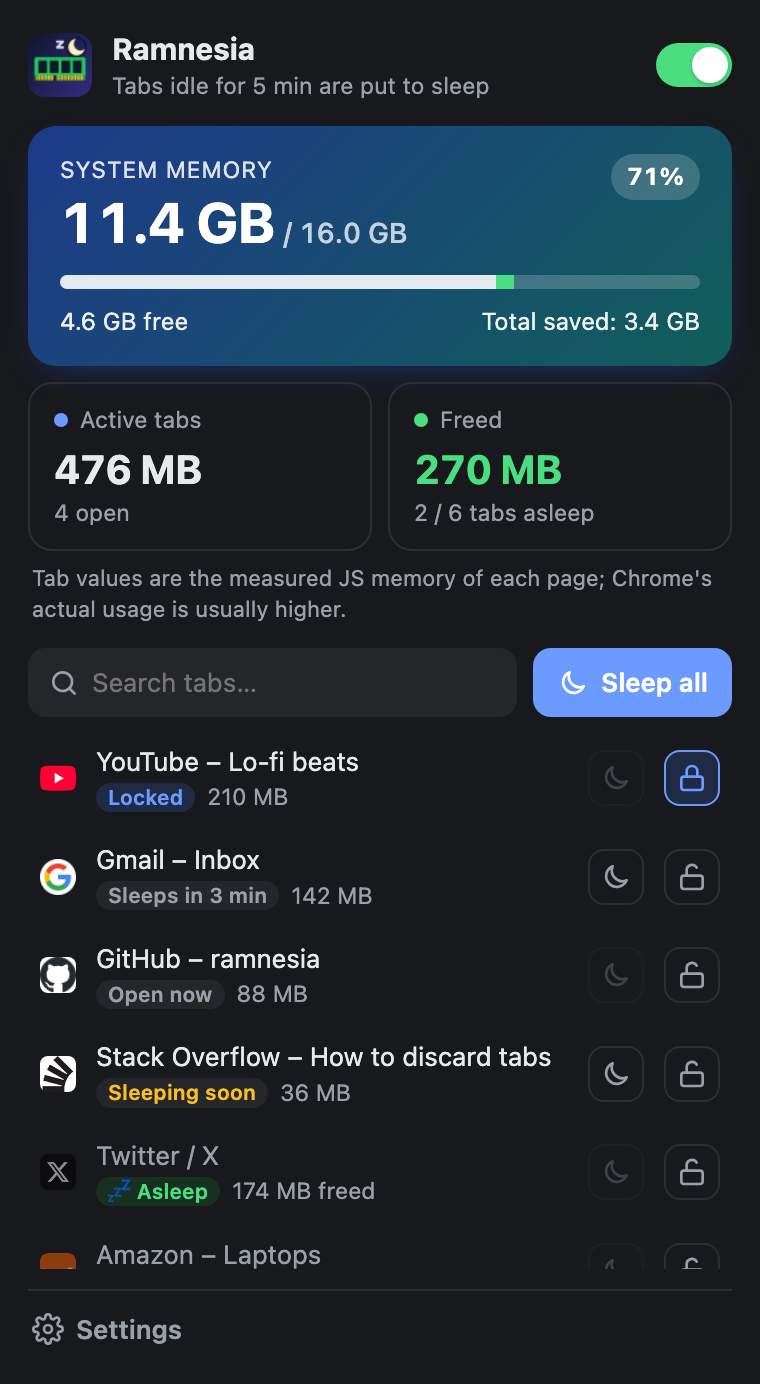
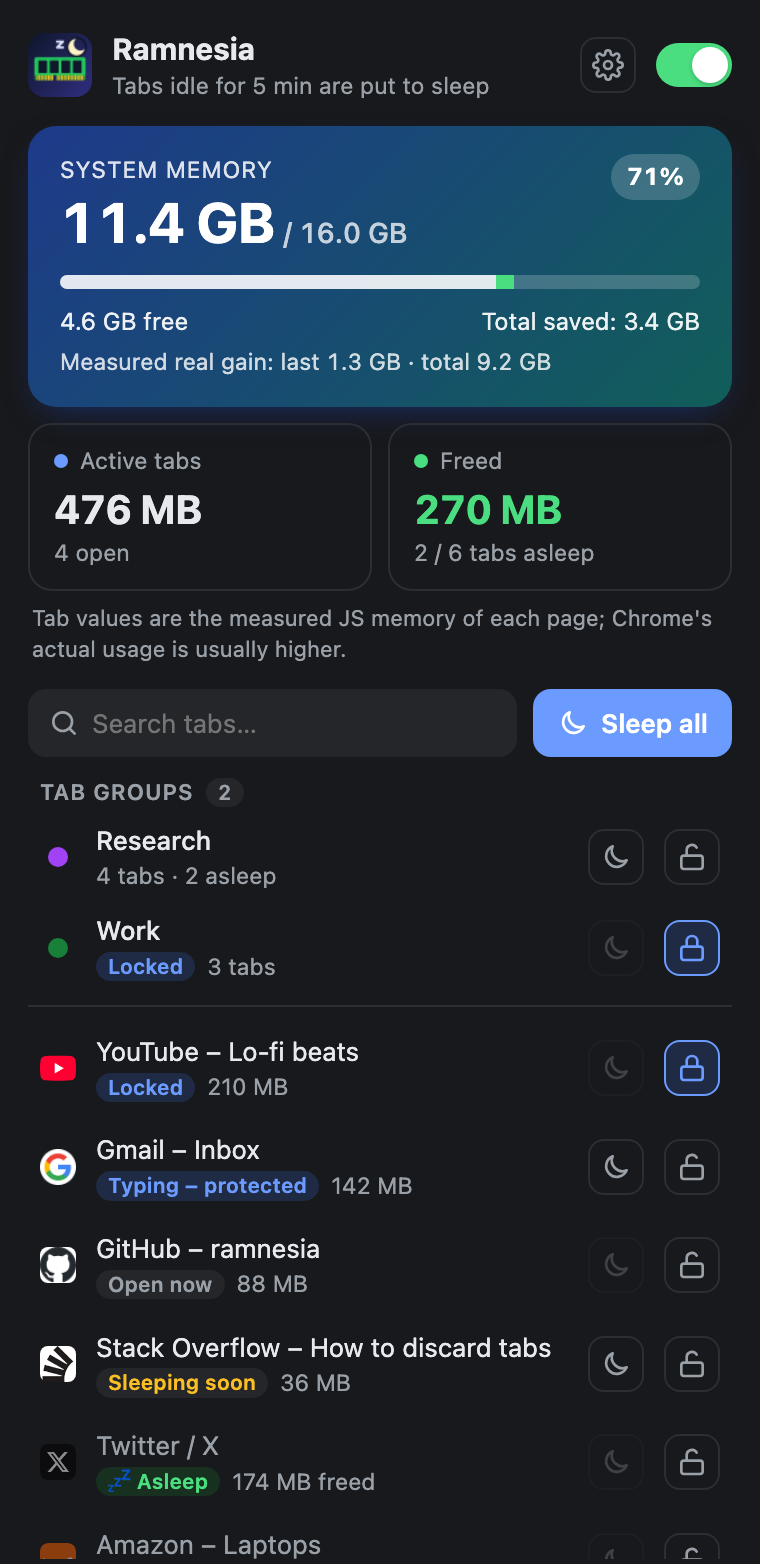
Move settings into a separate view behind a gear button
- Gear button next to the on/off switch opens a settings view; back
  button or Esc returns
- Settings grouped into cards: General, Protection, When RAM is high,
  When I'm away, Tab groups, Sites never put to sleep, Statistics
- Drop the separate "reset measured total" button; "Reset total" now
  resets both totals
- Refresh README screenshots and add the settings view

diff --git a/popup.html b/popup.html
@@ -18,68 +18,81 @@
         <p id="modeText"></p>
       </div>
     </div>
-    <label class="switch" data-i18n-title="toggleTitle">
-      <input type="checkbox" id="enabled" />
-      <span></span>
-    </label>
+    <div class="header-actions">
+      <button id="openSettings" class="icon-btn" type="button" data-i18n-title="settings" aria-pressed="false">
+        <svg viewBox="0 0 24 24"><circle cx="12" cy="12" r="3"/><path d="M19.4 15a1.7 1.7 0 0 0 .3 1.8l.1.1a2 2 0 1 1-2.8 2.8l-.1-.1a1.7 1.7 0 0 0-1.8-.3 1.7 1.7 0 0 0-1 1.5V21a2 2 0 1 1-4 0v-.1a1.7 1.7 0 0 0-1.1-1.5 1.7 1.7 0 0 0-1.8.3l-.1.1a2 2 0 1 1-2.8-2.8l.1-.1a1.7 1.7 0 0 0 .3-1.8 1.7 1.7 0 0 0-1.5-1H3a2 2 0 1 1 0-4h.1a1.7 1.7 0 0 0 1.5-1.1 1.7 1.7 0 0 0-.3-1.8l-.1-.1a2 2 0 1 1 2.8-2.8l.1.1a1.7 1.7 0 0 0 1.8.3H9a1.7 1.7 0 0 0 1-1.5V3a2 2 0 1 1 4 0v.1a1.7 1.7 0 0 0 1 1.5 1.7 1.7 0 0 0 1.8-.3l.1-.1a2 2 0 1 1 2.8 2.8l-.1.1a1.7 1.7 0 0 0-.3 1.8V9a1.7 1.7 0 0 0 1.5 1H21a2 2 0 1 1 0 4h-.1a1.7 1.7 0 0 0-1.5 1z"/></svg>
+      </button>
+      <label class="switch" data-i18n-title="toggleTitle">
+        <input type="checkbox" id="enabled" />
+        <span></span>
+      </label>
+    </div>
   </header>
 
-  <section class="hero">
-    <div class="hero-top">
-      <div>
-        <div class="hero-label" data-i18n="systemMemory"></div>
-        <div class="hero-value"><span id="sysUsed">–</span><small id="sysCap"></small></div>
+  <!-- ana görünüm -->
+  <main id="mainView">
+    <section class="hero">
+      <div class="hero-top">
+        <div>
+          <div class="hero-label" data-i18n="systemMemory"></div>
+          <div class="hero-value"><span id="sysUsed">–</span><small id="sysCap"></small></div>
+        </div>
+        <div class="hero-pct" id="sysPct"></div>
       </div>
-      <div class="hero-pct" id="sysPct"></div>
-    </div>
-    <div class="pressure-pill" id="pressurePill" hidden>
-      <svg viewBox="0 0 24 24"><path d="M13 2 4 14h7l-1 8 9-12h-7z"/></svg>
-      <span data-i18n="pressurePill"></span>
-    </div>
-    <div class="meter" data-i18n-title="meterTitle">
-      <div id="meterOther"></div><div id="meterTabs"></div>
-    </div>
-    <div class="hero-meta">
-      <span id="sysFree"></span>
-      <span id="totalSaved"></span>
-    </div>
-    <div id="heroExtra"></div>
-  </section>
+      <div class="pressure-pill" id="pressurePill" hidden>
+        <svg viewBox="0 0 24 24"><path d="M13 2 4 14h7l-1 8 9-12h-7z"/></svg>
+        <span data-i18n="pressurePill"></span>
+      </div>
+      <div class="meter" data-i18n-title="meterTitle">
+        <div id="meterOther"></div><div id="meterTabs"></div>
+      </div>
+      <div class="hero-meta">
+        <span id="sysFree"></span>
+        <span id="totalSaved"></span>
+      </div>
+      <div id="heroExtra"></div>
+    </section>
 
-  <div class="tiles">
-    <div class="tile">
-      <div class="tile-label"><i class="dot awake"></i><span data-i18n="awakeTabs"></span></div>
-      <div class="tile-value" id="awakeMem">–</div>
-      <div class="tile-sub" id="awakeCount"></div>
+    <div class="tiles">
+      <div class="tile">
+        <div class="tile-label"><i class="dot awake"></i><span data-i18n="awakeTabs"></span></div>
+        <div class="tile-value" id="awakeMem">–</div>
+        <div class="tile-sub" id="awakeCount"></div>
+      </div>
+      <div class="tile">
+        <div class="tile-label"><i class="dot asleep"></i><span data-i18n="freedLabel"></span></div>
+        <div class="tile-value good" id="savedNow">0 MB</div>
+        <div class="tile-sub" id="sleepCount"></div>
+      </div>
     </div>
-    <div class="tile">
-      <div class="tile-label"><i class="dot asleep"></i><span data-i18n="freedLabel"></span></div>
-      <div class="tile-value good" id="savedNow">0 MB</div>
-      <div class="tile-sub" id="sleepCount"></div>
+    <p class="note" id="heroNote"></p>
+
+    <div class="toolbar">
+      <div class="search">
+        <svg viewBox="0 0 24 24"><circle cx="11" cy="11" r="7"/><path d="m20 20-3.5-3.5"/></svg>
+        <input id="search" type="search" data-i18n-placeholder="searchPlaceholder" />
+      </div>
+      <button id="discardNow" class="primary" data-i18n-title="discardAllTitle">
+        <svg viewBox="0 0 24 24"><path d="M20 14.5A8 8 0 0 1 9.5 4a8 8 0 1 0 10.5 10.5z"/></svg>
+        <span data-i18n="discardAll"></span>
+      </button>
     </div>
-  </div>
-  <p class="note" id="heroNote"></p>
 
-  <div class="toolbar">
-    <div class="search">
-      <svg viewBox="0 0 24 24"><circle cx="11" cy="11" r="7"/><path d="m20 20-3.5-3.5"/></svg>
-      <input id="search" type="search" data-i18n-placeholder="searchPlaceholder" />
+    <div id="groupSection"></div>
+    <ul id="tabList"></ul>
+  </main>
+
+  <!-- ayarlar görünümü -->
+  <section id="settingsView" hidden>
+    <div class="view-head">
+      <button id="closeSettings" class="icon-btn" type="button" data-i18n-title="back">
+        <svg viewBox="0 0 24 24"><path d="M15 18l-6-6 6-6"/></svg>
+      </button>
+      <h2 data-i18n="settings"></h2>
     </div>
-    <button id="discardNow" class="primary" data-i18n-title="discardAllTitle">
-      <svg viewBox="0 0 24 24"><path d="M20 14.5A8 8 0 0 1 9.5 4a8 8 0 1 0 10.5 10.5z"/></svg>
-      <span data-i18n="discardAll"></span>
-    </button>
-  </div>
 
-  <div id="groupSection"></div>
-  <ul id="tabList"></ul>
-
-  <details id="settings">
-    <summary>
-      <svg viewBox="0 0 24 24"><circle cx="12" cy="12" r="3"/><path d="M19.4 15a1.7 1.7 0 0 0 .3 1.8l.1.1a2 2 0 1 1-2.8 2.8l-.1-.1a1.7 1.7 0 0 0-1.8-.3 1.7 1.7 0 0 0-1 1.5V21a2 2 0 1 1-4 0v-.1a1.7 1.7 0 0 0-1.1-1.5 1.7 1.7 0 0 0-1.8.3l-.1.1a2 2 0 1 1-2.8-2.8l.1-.1a1.7 1.7 0 0 0 .3-1.8 1.7 1.7 0 0 0-1.5-1H3a2 2 0 1 1 0-4h.1a1.7 1.7 0 0 0 1.5-1.1 1.7 1.7 0 0 0-.3-1.8l-.1-.1a2 2 0 1 1 2.8-2.8l.1.1a1.7 1.7 0 0 0 1.8.3H9a1.7 1.7 0 0 0 1-1.5V3a2 2 0 1 1 4 0v.1a1.7 1.7 0 0 0 1 1.5 1.7 1.7 0 0 0 1.8-.3l.1-.1a2 2 0 1 1 2.8 2.8l-.1.1a1.7 1.7 0 0 0-.3 1.8V9a1.7 1.7 0 0 0 1.5 1H21a2 2 0 1 1 0 4h-.1a1.7 1.7 0 0 0-1.5 1z"/></svg>
-      <span data-i18n="settings"></span>
-    </summary>
-    <div class="settings-body">
+    <div class="set-card">
+      <h3 data-i18n="secGeneral"></h3>
       <label class="row">
         <span data-i18n="sleepAfter"></span>
         <span class="stepper">
@@ -92,7 +105,15 @@
       <label class="row"><span data-i18n="skipPinned"></span><input type="checkbox" id="skipPinned" class="toggle" /></label>
       <label class="row"><span data-i18n="skipAudible"></span><input type="checkbox" id="skipAudible" class="toggle" /></label>
       <label class="row"><span data-i18n="notifyLabel"></span><input type="checkbox" id="notify" class="toggle" /></label>
+    </div>
 
+    <div class="set-card">
+      <h3 data-i18n="secProtect"></h3>
+      <div id="settingsProtect"></div>
+    </div>
+
+    <div class="set-card">
+      <h3 data-i18n="secPressure"></h3>
       <label class="row">
         <span>
           <span data-i18n="pressureMode"></span>
@@ -120,17 +141,33 @@
           </span>
         </label>
       </div>
+    </div>
 
-      <div id="featureSettings"></div>
+    <div class="set-card">
+      <h3 data-i18n="secAway"></h3>
+      <div id="settingsAway"></div>
+    </div>
 
-      <div class="sub" data-i18n="whitelistTitle"></div>
+    <div class="set-card">
+      <h3 data-i18n="secGroups"></h3>
+      <div id="settingsGroups"></div>
+    </div>
+
+    <div class="set-card">
+      <h3 data-i18n="whitelistTitle"></h3>
       <textarea id="whitelist" rows="3" data-i18n-placeholder="whitelistPlaceholder"></textarea>
       <div class="btn-row">
         <button id="addCurrent" class="ghost" data-i18n="addCurrent"></button>
+      </div>
+    </div>
+
+    <div class="set-card">
+      <h3 data-i18n="secStats"></h3>
+      <div class="btn-row">
         <button id="resetTotals" class="ghost" data-i18n="resetTotals"></button>
       </div>
     </div>
-  </details>
+  </section>
 
   <div id="toast" role="status"></div>
 

diff --git a/popup.js b/popup.js
@@ -22,7 +22,8 @@ const send = (msg) => chrome.runtime.sendMessage(msg);
 
 // --- özellik takılma noktaları ---------------------------------------------
 // features/*.popup.js dosyaları popup.js'ten sonra yüklenir ve buraya fonksiyon ekler.
-// Yer tutucular (popup.html): #heroExtra, #groupSection, #featureSettings
+// Yer tutucular (popup.html): #heroExtra, #groupSection ve ayarlar görünümündeki
+// #settingsProtect, #settingsAway, #settingsGroups
 const RNP = {
   afterStats: [], // (statsResponse) => void   → her yenilemede
   afterTabs: [],  // (tabsArray) => void        → her yenilemede
@@ -347,6 +348,24 @@ document.querySelectorAll("[data-step]").forEach((b) =>
   })
 );
 $("search").addEventListener("input", renderTabs);
+
+// --- görünüm geçişi (ana ekran ↔ ayarlar) -----------------------------------
+
+function showSettings(open) {
+  $("mainView").hidden = open;
+  $("settingsView").hidden = !open;
+  $("openSettings").classList.toggle("on", open);
+  $("openSettings").setAttribute("aria-pressed", String(open));
+  window.scrollTo(0, 0);
+}
+$("openSettings").addEventListener("click", () => showSettings($("settingsView").hidden));
+$("closeSettings").addEventListener("click", () => showSettings(false));
+document.addEventListener("keydown", (e) => {
+  if (e.key === "Escape" && !$("settingsView").hidden) {
+    e.preventDefault();
+    showSettings(false);
+  }
+});
 
 $("addCurrent").addEventListener("click", async () => {
   const [tab] = await chrome.tabs.query({ active: true, currentWindow: true });

diff --git a/popup.css b/popup.css
@@ -135,6 +135,24 @@ button.primary:hover { filter: brightness(1.08); }
 #tabList .empty { color: var(--muted); justify-content: center; padding: 18px; }
 
 /* ayarlar */
+/* başlık düğmeleri */
+.header-actions { display: flex; align-items: center; gap: 10px; }
+#openSettings svg { transition: transform .3s ease; }
+#openSettings.on svg { transform: rotate(60deg); }
+
+/* ayarlar görünümü */
+.view-head { display: flex; align-items: center; gap: 8px; margin-bottom: 10px; }
+.view-head h2 { font-size: 15px; margin: 0; }
+.set-card { border: 1px solid var(--line); border-radius: 12px; padding: 8px 12px 6px; margin-bottom: 8px; }
+.set-card h3 {
+  margin: 2px 0 2px; font-size: 11.5px; font-weight: 600; letter-spacing: .04em;
+  text-transform: uppercase; color: var(--muted);
+}
+.set-card:has(#settingsGroups:empty), .set-card:has(#settingsAway:empty), .set-card:has(#settingsProtect:empty) { display: none; }
+.set-card textarea { margin-top: 4px; }
+.set-card .btn-row { margin: 6px 0 4px; }
+[hidden] { display: none !important; }
+
 details { margin-top: 10px; border-top: 1px solid var(--line); }
 summary {
   display: flex; align-items: center; gap: 6px; padding: 10px 2px 4px; cursor: pointer;

diff --git a/features/realgain.popup.js b/features/realgain.popup.js
@@ -41,20 +41,7 @@
     line.hidden = true;
     $("heroExtra").append(line);
 
-    const row = document.createElement("div");
-    row.className = "btn-row realgain-row";
-    const btn = document.createElement("button");
-    btn.type = "button";
-    btn.className = "ghost";
-    btn.textContent = i18n("realgain_reset");
-    btn.title = i18n("realgain_resetTitle");
-    btn.addEventListener("click", async () => {
-      const r = await send({ type: "realgainReset" });
-      toast(r?.ok ? i18n("realgain_resetDone") : i18n("changeFailed"));
-      refresh();
-    });
-    row.append(btn);
-    $("featureSettings").append(row);
+    // Ölçülen toplam, ayarlardaki "Toplamı sıfırla" ile birlikte sıfırlanır.
   });
 
   RNP.afterStats.push((r) => {

diff --git a/features/idle.popup.js b/features/idle.popup.js
@@ -36,7 +36,6 @@
   const section = el(
     "div",
     { id: "idleSettings", className: "idle-settings" },
-    el("div", { className: "sub", textContent: i18n("idle_title") }),
     el("small", { className: "hint", textContent: i18n("idle_hint") }),
     el("label", { className: "row" }, el("span", { textContent: i18n("idle_sleepOnLock") }), lockBox),
     el(
@@ -53,7 +52,7 @@
     opts,
     last
   );
-  $("featureSettings")?.append(section);
+  $("settingsAway")?.append(section);
 
   // --- ayarlar --------------------------------------------------------------
   const clampMin = (v) => {

diff --git a/features/groups.popup.js b/features/groups.popup.js
@@ -21,7 +21,7 @@
   // --- settings toggle -----------------------------------------------------------
 
   function buildSettings() {
-    const host = $("featureSettings");
+    const host = $("settingsGroups");
     if (!host) return;
     const row = document.createElement("label");
     row.className = "row";

diff --git a/features/guard.popup.js b/features/guard.popup.js
@@ -25,7 +25,7 @@
   }
 
   RNP.init.push(async () => {
-    const host = $("featureSettings");
+    const host = $("settingsProtect");
     if (!host) return;
     const s = await chrome.storage.sync.get(GUARD_DEFAULTS);
     const wrap = document.createElement("div");

diff --git a/README.md b/README.md
@@ -13,7 +13,11 @@
 
 A Chrome extension that puts tabs you haven't used for a while to sleep, and shows how much memory that frees.
 
-<p align="center"><img src="docs/screenshot.png" width="380" alt="Ramnesia popup" /></p>
+<p align="center">
+  <img src="docs/screenshot.png" width="320" alt="Ramnesia popup" />
+  &nbsp;
+  <img src="docs/settings.png" width="320" alt="Ramnesia settings" />
+</p>
 
 ## What it does
 
